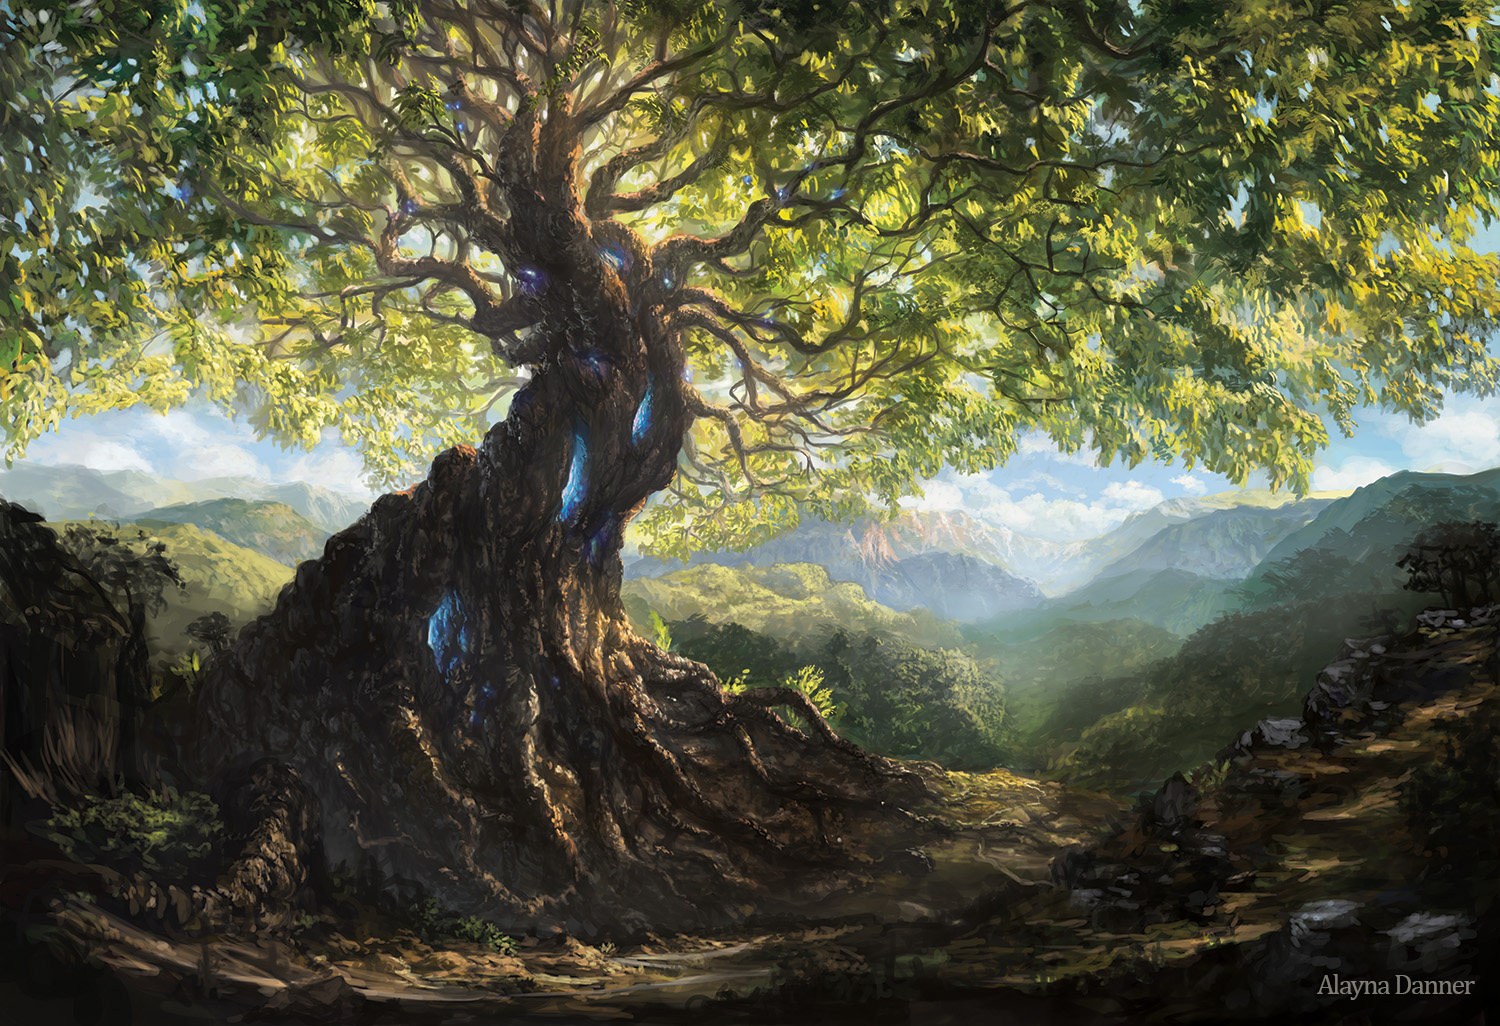
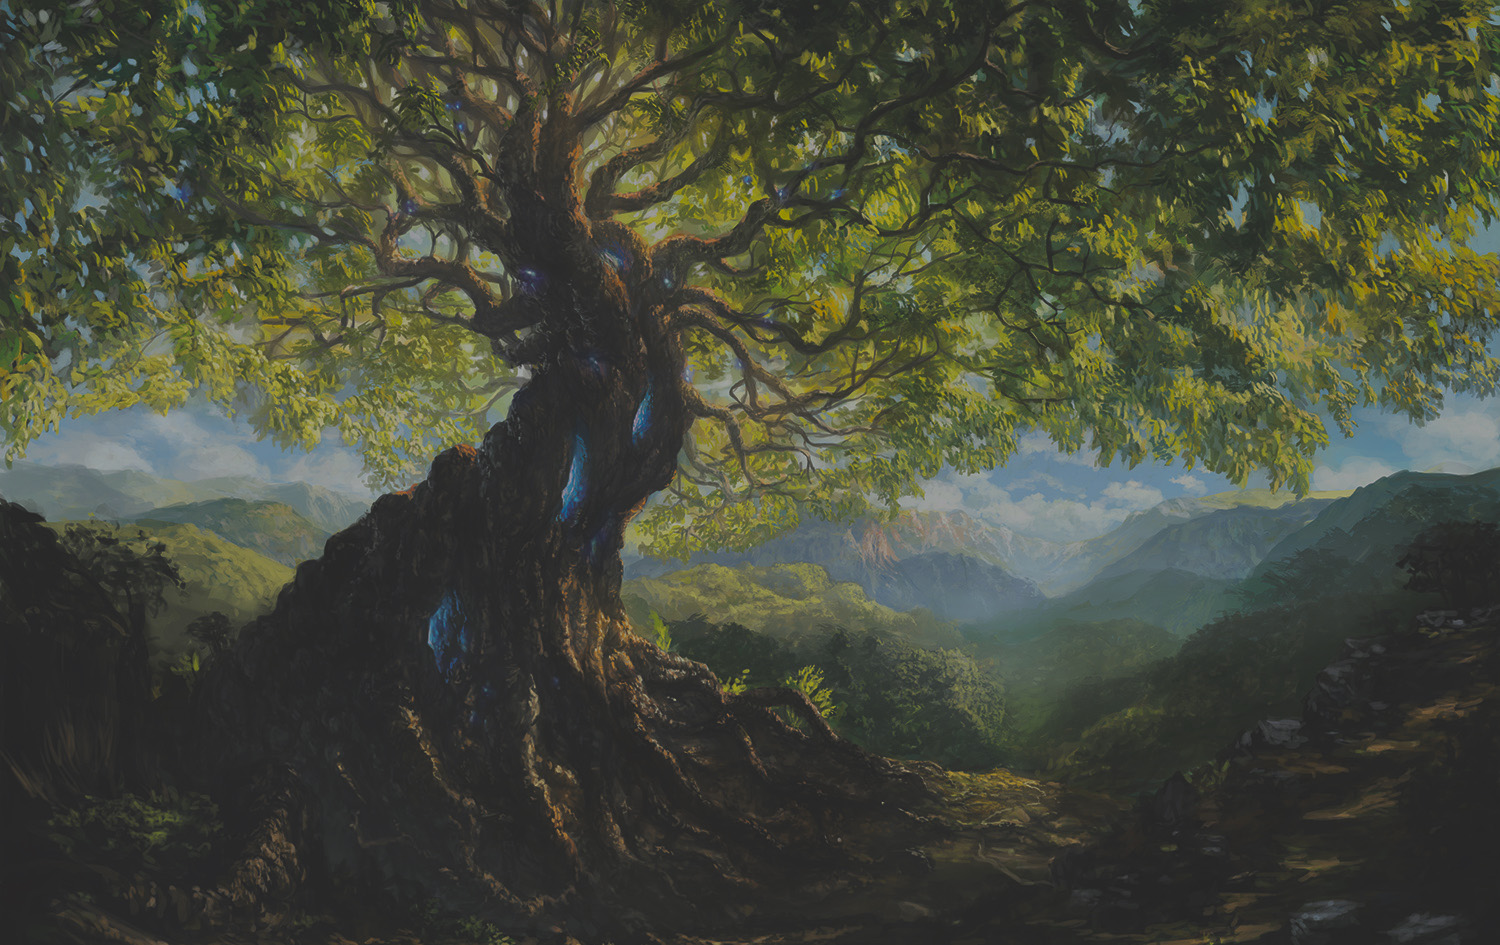
welcome update

diff --git a/Album/static/css/welcome/styles.css b/Album/static/css/welcome/styles.css
@@ -48,12 +48,13 @@ Colors:
 /******************************/
 body,
 html {
-	background: linear-gradient(rgba(0, 0, 0, 0.3), rgba(0, 0, 0, 0.5)), url('/static/image/welcome2.jpg') ;
+	background-image: url('/static/image/welcome2.jpg') ;
 	background-size: 100% 100%;
 	top: 0;
     width: 100%;
 	height: 100%;
 	background-repeat: no-repeat;
+	transition: background 2s;
 }
 
 body, p {
@@ -123,7 +124,7 @@ a:hover {
 }
 
 a.green {
-	color: #14bf98;
+	color: #64b3f4;
 }
 
 a.white,
@@ -144,16 +145,16 @@ strong {
 }
 
 .section-title {
-	color: #14bf98;
+	color: #64b3f4;
 	font: 500 0.8125rem/1.125rem "Montserrat", sans-serif;
 }
 
 .btn-solid-reg {
 	display: inline-block;
 	padding: 1.1875rem 1.875rem 1.1875rem 1.875rem;
-	border: 0.125rem solid #14bf98;
+	border: 0.125rem solid #64b3f4;
 	border-radius: 0.25rem;
-	background-color: #14bf98;
+	background-color: #64b3f4;
 	color: #fff;
 	font: 700 0.75rem/0 "Montserrat", sans-serif;
 	text-decoration: none;
@@ -162,25 +163,25 @@ strong {
 
 .btn-solid-reg:hover {
 	background-color: transparent;
-	color: #14bf98;
+	color: #64b3f4;
 	text-decoration: none;
 }
 
 .btn-solid-lg {
 	display: inline-block;
 	padding: 1.375rem 2.125rem 1.375rem 2.125rem;
-	border: 0.125rem solid #14bf98;
+	border: 0.125rem solid #64b3f4;
 	border-radius: 0.25rem;
-	background-color: #14bf98;
-	color: #fff;
+	background-color: transparent;
+	color: #64b3f4;
 	font: 700 0.75rem/0 "Montserrat", sans-serif;
 	text-decoration: none;
 	transition: all 0.2s;
 }
 
 .btn-solid-lg:hover {
-	background-color: transparent;
-	color: #14bf98;
+	background-color: #64b3f4;
+	color: #fff;
 	text-decoration: none;
 }
 
@@ -381,9 +382,9 @@ input[type='checkbox'] {
 	display: inline-block;
 	width: 100%;
 	height: 3.125rem;
-	border: 0.125rem solid #14bf98;
+	border: 0.125rem solid #64b3f4;
 	border-radius: 0.25rem;
-	background-color: #14bf98;
+	background-color: #64b3f4;
 	color: #fff;
 	font: 700 0.75rem/1.75rem "Montserrat", sans-serif;
 	cursor: pointer;
@@ -392,7 +393,7 @@ input[type='checkbox'] {
 
 .form-control-submit-button:hover {
 	background-color: transparent;
-	color: #14bf98;
+	color: #64b3f4;
 }
 
 /* Form Success And Error Message Formatting */
@@ -686,7 +687,7 @@ input[type='checkbox'] {
 
 .navbar-custom .nav-item .nav-link:hover,
 .navbar-custom .nav-item .nav-link.active {
-	color: #14bf98;
+	color: #64b3f4;
 }
 
 /* Dropdown Menu */
@@ -731,7 +732,7 @@ input[type='checkbox'] {
 }
 
 .navbar-custom .dropdown-item:hover .item-text {
-	color: #14bf98;
+	color: #64b3f4;
 }
 
 .navbar-custom .dropdown-items-divide-hr {
@@ -1877,7 +1878,7 @@ a:hover.back-to-top {
 	
 	.navbar-custom .nav-item .nav-link:hover,
 	.navbar-custom .nav-item .nav-link.active {
-		color: #14bf98;
+		color: #64b3f4;
 	}
 
 	.navbar-custom.top-nav-collapse {

diff --git a/templates/Album/welcome.html b/templates/Album/welcome.html
@@ -24,7 +24,28 @@
     <div id="loader"></div>
 </div>
 
-<div id="content">
+<!-- Navbar -->
+    <nav class="navbar navbar-expand-md navbar-dark navbar-custom fixed-top">
+        <!-- Text Logo - Use this if you don't have a graphic logo -->
+        <!-- <a class="navbar-brand logo-text page-scroll" href="index.html">Aria</a> -->
+        <!-- Image Logo -->
+        <a class="navbar-brand logo-image" href=""><img src="/static/image/AIAlbum-S.svg" alt="alternative"></a>
+
+        <div class="collapse navbar-collapse" id="navbarsExampleDefault">
+            <ul class="navbar-nav ml-auto">
+                <li class="nav-item">
+                    <a class="nav-link page-scroll" href="">HOME <span class="sr-only">(current)</span></a>
+                </li>
+                <li class="nav-item">
+                    <a class="nav-link page-scroll" href="#intro">INTRO</a>
+                </li>
+                <li class="nav-item">
+                    <a class="nav-link page-scroll" href="#contact">CONTACT</a>
+                </li>
+            </ul>
+        </div>
+    </nav> <!-- end of navbar -->
+    <!-- end of navbar -->
 
 <!-- Header -->
     <header id="header" class="header" id="beta">
@@ -34,7 +55,7 @@
                     <div class="col-lg-12">
                         <div class="text-container">
                             <h1><span id="js-rotating">INTELLIGENT, SWIFT, CONVENIENT</span> ALBUM</h1>
-                            <p class="p-heading p-large">Aria is a top consultancy company specializing in business growth using online marketing and conversion optimization tactics</p>
+                            <p class="p-heading p-large">Album is an intelligent album specializing in photo classification powered by Neutral Network </p>
                             <a class="btn-solid-lg page-scroll" href="/login/" style="font-size: medium">Login</a>
                             {% ifequal request.session.is_login True %}
                             <a class="btn-solid-lg page-scroll" href="/loginout/" style="font-size: medium">Loginout</a>
@@ -47,7 +68,7 @@
         </div> <!-- end of header-content -->
     </header> <!-- end of header -->
     <!-- end of header -->
-</div>
+
 <script src="/static/js/jquery.min.js"></script>
 <script src="/static/js/bootstrap.min.js"></script>
 <script src="/static/js/preload/main.js"></script>

diff --git a/Album/static/js/welcome/main.js b/Album/static/js/welcome/main.js
@@ -11,7 +11,7 @@ $(document).ready(function () {
             $("#alpha").css("backgroundImage","url("+arrImg[(index++)%len]+")");
 
 
-        }, 5000);
+        }, 6000);
 
 });
 
